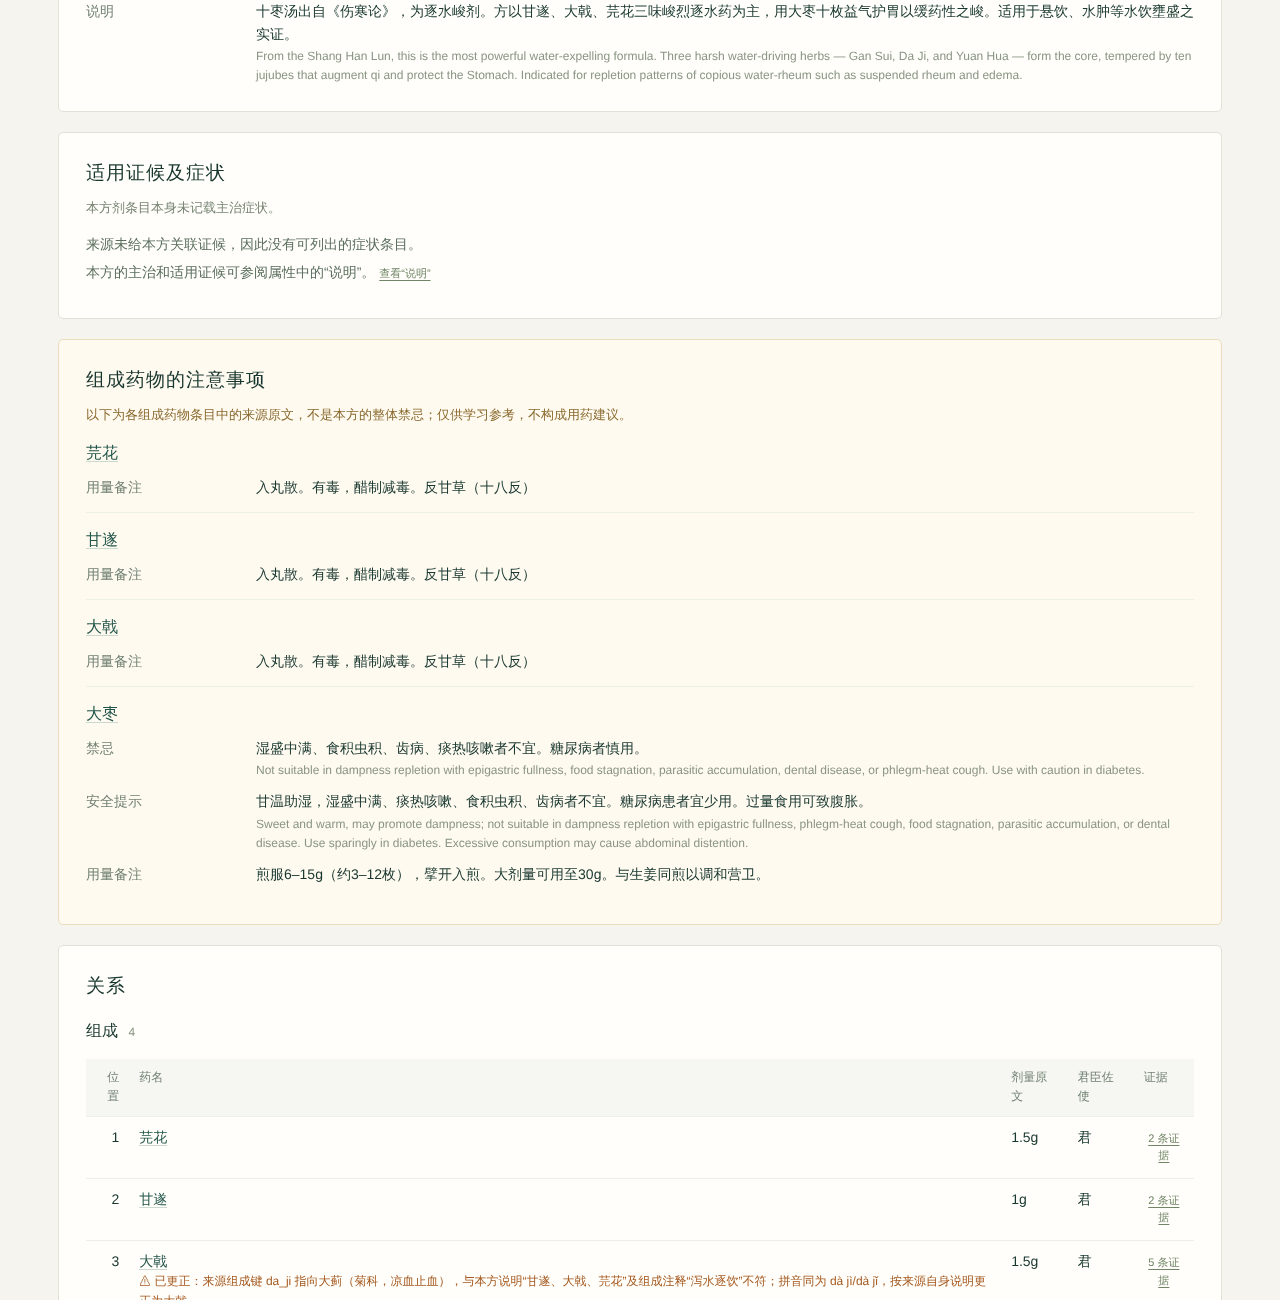
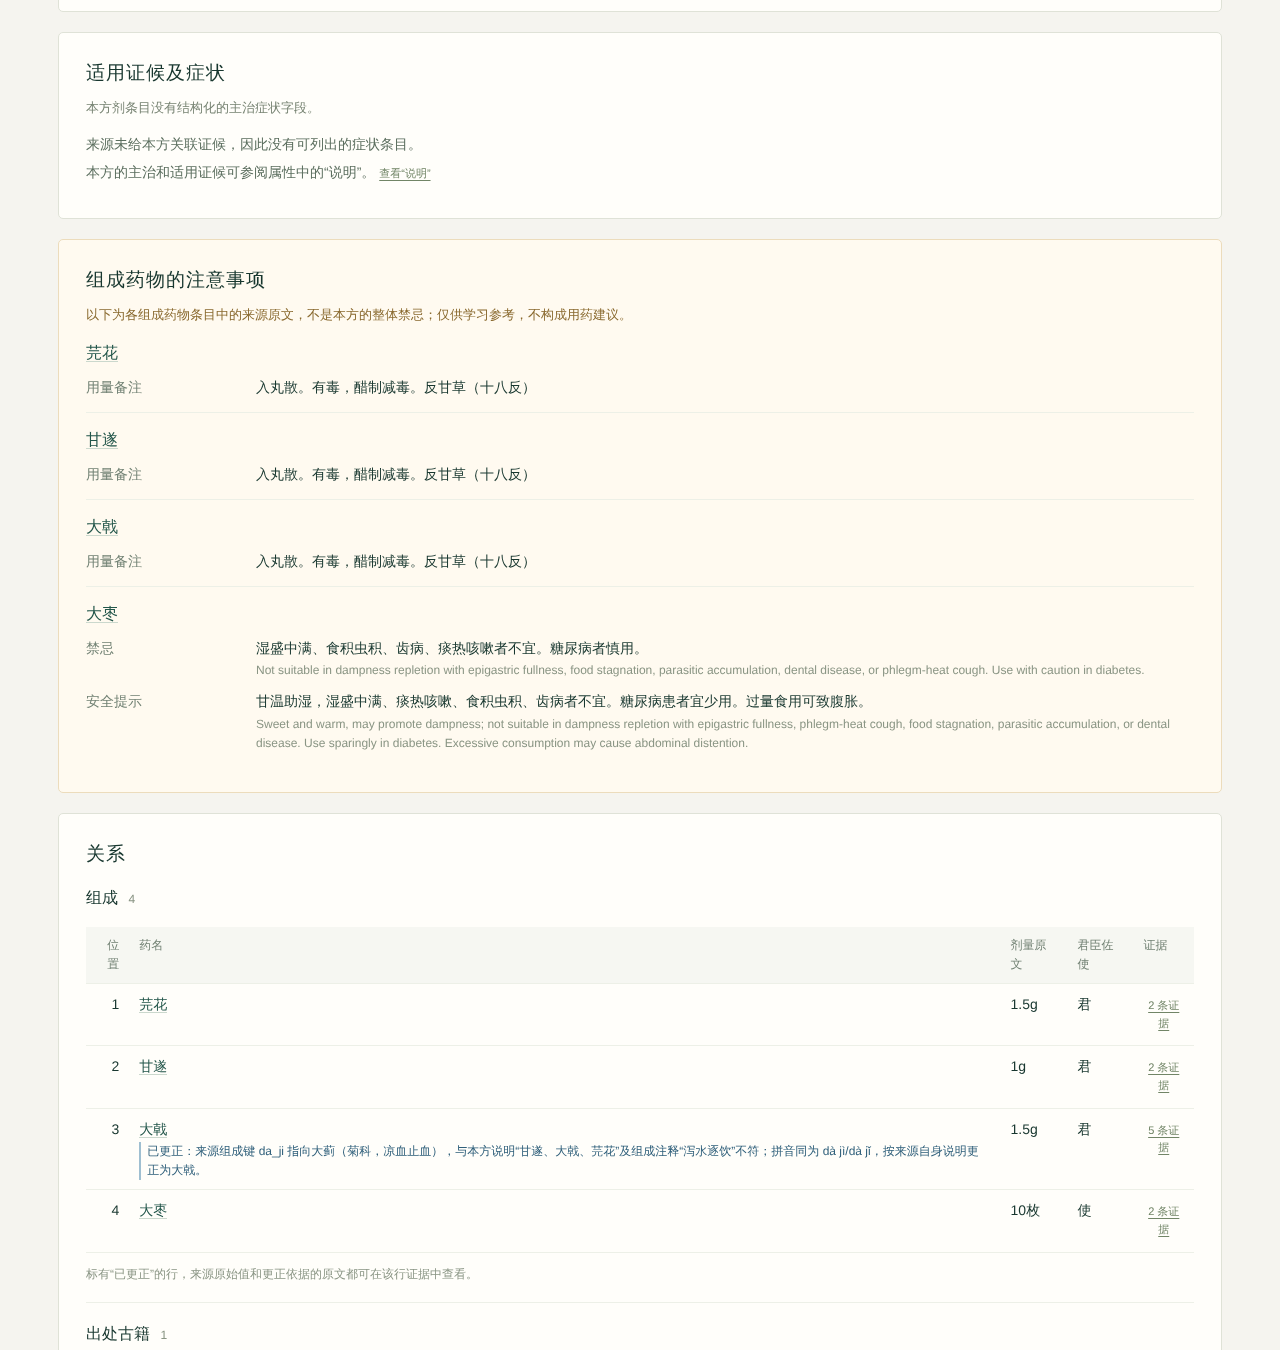
fix: address PR #7 review on 十枣汤 correction and formula notes
- import_core: skip the correction lookup for malformed keys so they fail
  as missing_endpoint with a location, and reject duplicate corrections.
- Only dosage notes with safety wording count as herb precautions; plain
  decoction notes stay out and their herbs stay in the no-record list.
- Empty-state wording no longer contradicts the 说明 field; the label is
  focusable only for the jump and keeps a visible focus ring.
- 已更正 uses its own style instead of the conflict warning.
- Switch guide backs up config/app.json first; the quality report is
  regenerated for the new batch cbadd11e (same table contents as c0406848).

Claude-Session: https://claude.ai/code/session_01NEto65YF4Lg3K4JxP54u4q

diff --git a/frontend/src/style.css b/frontend/src/style.css
@@ -58,7 +58,7 @@ nav a.active{color:#102f25;font-weight:600}
 .note-evidence{font-size:12px;margin-left:10px;font-weight:400}
 .empty-guide{font-size:14px;color:#5b6e5e}
 .empty-guide p{margin:0 0 6px}
-.attributes dt:focus{outline:none;color:#23564a;font-weight:600}
+.attributes dt:focus{outline:3px solid #af8051;outline-offset:3px}
 .alias-list{display:flex;flex-wrap:wrap;gap:8px;list-style:none;padding:0;margin:0 0 10px}
 .alias-list li{background:#f1f3eb;border-radius:3px;padding:2px 10px;font-size:13px}
 .relation-section{padding-top:18px;border-top:1px solid #edf0e7;margin-top:18px}
@@ -73,6 +73,8 @@ tfoot th,tfoot td{font-weight:600}
 tr.conflicting{background:#fff8ec}
 .conflict{color:#a5591f}
 .conflict.block{display:block;font-size:12px}
+.corrected{color:#2f5f7a}
+.corrected.block{display:block;font-size:12px;border-left:2px solid #9fbfd1;padding-left:6px;margin-top:2px}
 .footnote{font-size:12px;color:#8a9584;margin:12px 0 0}
 .edge-extras{font-size:12px;margin-top:4px;color:#728274}
 .edge-extras summary{cursor:pointer}

diff --git a/frontend/src/components/RelationSection.vue b/frontend/src/components/RelationSection.vue
@@ -73,7 +73,7 @@ const entityLink = (id: string) => `/entity/${encodeURIComponent(id)}`
                 <RouterLink class="text-link" :to="entityLink(neighbor.id)">{{ neighbor.label }}</RouterLink>
                 <span v-if="variant === 'generic' && conflicting(edge)" class="conflict"> ⚠ 来源记载不一致</span>
                 <small v-for="line in conflictValues(edge)" :key="line" class="conflict block">⚠ {{ line }}</small>
-                <small v-if="correction(edge)" class="conflict block">⚠ 已更正：{{ correction(edge) }}</small>
+                <small v-if="correction(edge)" class="corrected block">已更正：{{ correction(edge) }}</small>
                 <details v-if="hasExtras(edge)" class="edge-extras"><summary>边属性</summary><AttributeValue :value="extras(edge)" /></details>
               </td>
               <template v-if="variant === 'composition' || variant === 'formulas'">

diff --git a/frontend/src/views/EntityView.vue b/frontend/src/views/EntityView.vue
@@ -62,7 +62,7 @@ const relations = computed(() => (data.value?.relation_summary ?? [])
         <h2 id="attr-heading">属性</h2>
         <dl class="attributes">
           <template v-for="row in sections.main" :key="row.key">
-            <dt :id="`attr-${row.key}`" tabindex="-1">{{ row.label }}</dt>
+            <dt :id="`attr-${row.key}`">{{ row.label }}</dt>
             <dd v-if="row.missing" class="muted">来源未提供</dd>
             <dd v-else>
               <AttributeValue :value="row.value" :field="row.key" />

diff --git a/scripts/import_core.py b/scripts/import_core.py
@@ -134,13 +134,18 @@ def import_rows(db, data, hashes):
         issues.append(issue(code, filename, key, path, raw_value, action))
 
     # Curated key corrections, each backed by quotations from the source itself (datasets/curated/corrections.json).
-    corrections = {(f"bencaodian:formula:{c['formula']}", c["raw_herb"]): c
-                   for c in data["curated/corrections.json"]["corrections"]}
+    corrections = {}
+    for i, c in enumerate(data["curated/corrections.json"]["corrections"]):
+        key = (f"bencaodian:formula:{c['formula']}", c["raw_herb"])
+        if key in corrections:
+            fail("duplicate_correction", "corrections.json", c["formula"], f"/corrections/{i}", c)
+        corrections[key] = c
     applied = defaultdict(list)
 
     def add_claim(source_id, relation, kind, key, sid, path, properties=None, position=None, key_path=""):
         filename, record_key, row = records[sid]
-        correction = corrections.get((source_id, key)) if relation == "CONTAINS" else None
+        # A malformed key (e.g. a list) skips the lookup and fails below as missing_endpoint with its location.
+        correction = corrections.get((source_id, key)) if relation == "CONTAINS" and isinstance(key, str) else None
         if correction:
             key = correction["herb"]
             warn("corrected_reference", sid, path + key_path, correction["raw_herb"],

diff --git a/tests/test_import_core.py b/tests/test_import_core.py
@@ -102,6 +102,7 @@ def main():
             ("formulas.json", lambda rows: rows.append(rows[0]), "duplicate_source_key"),
             ("formulas.json", lambda rows: rows[0].update(name_zh="　 "), "missing_label"),
             ("formulas.json", lambda rows: rows[0]["composition"][0].update(herb_key="missing"), "missing_endpoint"),
+            ("formulas.json", lambda rows: rows[0]["composition"][0].update(herb_key=["ren_shen"]), "missing_endpoint"),
             ("relationships.json", lambda rows: rows.update(unmapped=[]), "unknown_relation_mapping"),
             ("formulas.json", lambda rows: rows[0]["verification"].update(status="new-status"), "warning_baseline_changed"),
         ):
@@ -127,6 +128,7 @@ def main():
         for mutate, expected in (
             (lambda c: c[0].update(formula="si_jun_zi_tang"), "stale_correction"),
             (lambda c: c[0]["basis"][0].update(text="大蓟"), "correction_basis_mismatch"),
+            (lambda c: c.append(dict(c[0], basis=[])), "duplicate_correction"),
         ):
             rows = json.loads(canonical(corrections))
             mutate(rows["corrections"])

diff --git a/tests/test_api.py b/tests/test_api.py
@@ -16,7 +16,7 @@ sys.path.insert(0, str(ROOT))
 from backend import queries, services
 from backend.app import app
 
[2 lines of base64/hex data omitted]
 FORMULA = 'bencaodian:formula:si_jun_zi_tang'
 CONFLICT = 'bencaodian:formula:zhu_ling_tang'
 GINSENG = 'bencaodian:herb:ren_shen'

diff --git a/spec.md b/spec.md
@@ -23,7 +23,7 @@
 
 ### 1.2 实测的数据特征（影响设计）
 
-以下数字来自当前批次 `c0406848…`（2026-10-16 起；与 `5a76218e…` 相比只更正了十枣汤的大戟，引文证据多 3 条）：
+以下数字来自当前批次 `cbadd11e…`（2026-10-16 起；与 `5a76218e…` 相比只更正了十枣汤的大戟，引文证据多 3 条）：
 
 - **实体分布**
   - 本草典：中药 365、方剂 112、证候 84、古籍 38，均为 `editor_reviewed`。
@@ -52,7 +52,7 @@
 
 应用配置、示例配置、PostgreSQL 和 Neo4j 样例已统一到 `5a76218e…` 批次。统计仍为 199,876 条业务记录，旧 schema 和私有配置备份保留，真实 HTTP 回滚及恢复已验证。
 
-`docs/data-quality-report.json` 和 `docs/data-pipeline-report.json` 保留历史内容。`tests/test_app.py` 当前仍断言 `graph.projection == "sample"`，M3 引入全量投影后再同步修改。
+`docs/data-quality-report.json` 已于 2026-10-16 按 `cbadd11e…` 批次重新生成；`docs/data-pipeline-report.json` 保留历史内容。`tests/test_app.py` 当前仍断言 `graph.projection == "sample"`，M3 引入全量投影后再同步修改。
 
 ---
 
@@ -420,7 +420,7 @@ frontend/src/
 
 - **方剂的症状与注意事项**：本草典方剂条目本身没有主治症状和禁忌字段，方剂详情页另加两个分区，数据来自 `GET /entities/{id}/formula-notes`，不由模型生成，也不补写。
   - "适用证候及症状"：经 `ASSOCIATED_WITH_PATTERN` 关联的证候条目中的主症、次症、舌象、脉象原文，附关联证据。当前批次 112 首方剂中 56 首有关联证候；没有关联的说明来源未给本方关联证候，并引导查看属性中的"说明"（多数方剂的主治写在其中），附跳转按钮。
-  - "组成药物的注意事项"：经 `CONTAINS` 关联的各药物条目中的禁忌、安全提示、用量备注（`dosage_range.notes`，如"有毒""反甘草""孕妇禁用"）原文，以及孕期、哺乳期、儿童的类别（`contraindicated` 禁用、`avoid` 忌用、`caution` 慎用）和说明；类别为 `no_data` 的不列出。分区开头固定写"以下为各组成药物条目中的来源原文，不是本方的整体禁忌；仅供学习参考，不构成用药建议"，没有任何记载的药物在分区末尾列出并注明"不代表无禁忌"。
+  - "组成药物的注意事项"：经 `CONTAINS` 关联的各药物条目中的禁忌、安全提示、用量备注（`dosage_range.notes`，只收含"有毒""十八反""孕妇""慎用""过量"等安全字样的备注，煎法类备注不列）原文，以及孕期、哺乳期、儿童的类别（`contraindicated` 禁用、`avoid` 忌用、`caution` 慎用）和说明；类别为 `no_data` 的不列出。分区开头固定写"以下为各组成药物条目中的来源原文，不是本方的整体禁忌；仅供学习参考，不构成用药建议"，没有任何记载的药物在分区末尾列出并注明"不代表无禁忌"。
 
 **字段配置**（已用开发库核对每种类型 `attributes_json` 的实际键）：
 

diff --git a/docs/vastbase-import.md b/docs/vastbase-import.md
@@ -23,8 +23,8 @@ docker compose up -d --wait
 | 数据库 | `qihuang` |
 | 维护账号 | `qihuang_import` |
 | 私有连接文件 | `config/postgresql.json` |
-| 当前数据 schema | `qihuang_c0406848c955a1edf6856e30` |
[1 lines of base64/hex data omitted]
+| 当前数据 schema | `qihuang_cbadd11ea5c86dc3d7654c46` |
[1 lines of base64/hex data omitted]
 
 安装共享驱动并完成环境验证和入库：
 
@@ -32,7 +32,7 @@ docker compose up -d --wait
 uv venv --python 3.12 .venv
 uv pip install --python .venv/bin/python -r requirements-vastbase.txt
 .venv/bin/python scripts/import_vastbase.py --engine postgresql
-.venv/bin/python scripts/import_vastbase.py --engine postgresql --release var/prepared/c0406848c955a1edf6856e30cfb5019e4fcd89ae30857830809d0eafb9bb4d99
+.venv/bin/python scripts/import_vastbase.py --engine postgresql --release var/prepared/cbadd11ea5c86dc3d7654c4652b06e23a77245af728fee2f1c46c9382ced867e
 ```
 
 新生成的批次使用 `prepare_data.py` 输出的目录。PostgreSQL 模式默认读取 `config/postgresql.json`，也可使用 `POSTGRES_DSN`；默认报告为 `var/postgresql-report.json`，标记 `engine=postgresql`、`purpose=development`，`vastbase=null`。Vastbase 模式继续使用独立的配置、DSN 和报告路径。
@@ -49,7 +49,7 @@ docker compose exec postgres psql -U qihuang_import -d qihuang
 在数据库会话中选择当前发布批次后即可查询：
 
 ```sql
-SET search_path TO qihuang_c0406848c955a1edf6856e30, pg_catalog;
+SET search_path TO qihuang_cbadd11ea5c86dc3d7654c46, pg_catalog;
 SELECT type, count(*) FROM entity GROUP BY type ORDER BY type;
 SELECT relation, count(*) FROM edge GROUP BY relation ORDER BY relation;
 ```
@@ -177,4 +177,4 @@ Neo4j 样例与 Vue + FastAPI 最小链路现已完成，见[阶段运行说明]
 
 2026-10-10 应用切换至 `5a76218e` 批次，Neo4j 样例同步重建。旧 schema 保留，配置备份位于 `var/app.json.previous.bak`；恢复备份并重启后端即可回滚。
 
-2026-10-16 当前批次改为 `c0406848`，唯一的数据差异是十枣汤组成中大蓟改为大戟（见[数据处理说明](data-processing.md#组成键值更正)）。实体、边和来源记录数量不变，引文证据增加 3 条。
+2026-10-16 当前批次改为 `cbadd11e`，唯一的数据差异是十枣汤组成中大蓟改为大戟（见[数据处理说明](data-processing.md#组成键值更正)）。实体、边和来源记录数量不变，引文证据增加 3 条。

diff --git a/docs/bootstrap.md b/docs/bootstrap.md
@@ -110,7 +110,15 @@ API 测试依赖实际主库和已构建的 Neo4j 样例；模型传输模拟测
 
 2026-10-10 应用与 Neo4j 样例已切换到 `5a76218e…` 批次。模型继续保持未配置；环境脚本的 `incomplete` 只表示真实模型验证尚未完成。
 
-2026-10-16 起当前批次为 `c0406848…`：十枣汤组成中的大戟按[组成键值更正](data-processing.md#组成键值更正)从来源误指的大蓟改回，其余数据不变。已有开发环境按以下顺序切换：重新运行 `prepare_data.py` 和下文的导入命令；删除 `config/app.json` 后运行 `setup_services.py` 重新选择批次；运行 `setup_reader.py` 授权新 schema；运行 `verify_environment.py` 重建 Neo4j 样例；最后重启后端。旧 schema 保留，可按下文回滚。
+2026-10-16 起当前批次为 `cbadd11e…`：十枣汤组成中的大戟按[组成键值更正](data-processing.md#组成键值更正)从来源误指的大蓟改回，其余数据不变。已有开发环境按以下顺序切换：
+
+1. 重新运行 `prepare_data.py` 和下文的导入命令。
+2. 把 `config/app.json` 复制为 `var/app.json.previous.bak`，这是回滚要用的备份；然后删除 `config/app.json`，运行 `setup_services.py` 重新选择批次。
+3. 运行 `setup_reader.py` 授权新 schema。
+4. 运行 `verify_environment.py` 重建 Neo4j 样例；如果已有 M3 的全量图谱投影，也要按新批次重新投影，否则图谱页面仍是旧数据。
+5. 重启后端。
+
+旧 schema 保留，可按下文回滚。
 
 启动后端后运行：
 
@@ -137,7 +145,7 @@ API 测试依赖实际主库和已构建的 Neo4j 样例；模型传输模拟测
 
 ```sh
 python3 scripts/setup_services.py
-.venv/bin/python scripts/import_vastbase.py --engine postgresql --release var/prepared/c0406848c955a1edf6856e30cfb5019e4fcd89ae30857830809d0eafb9bb4d99
+.venv/bin/python scripts/import_vastbase.py --engine postgresql --release var/prepared/cbadd11ea5c86dc3d7654c4652b06e23a77245af728fee2f1c46c9382ced867e
 .venv/bin/python scripts/setup_reader.py
 ```
 
